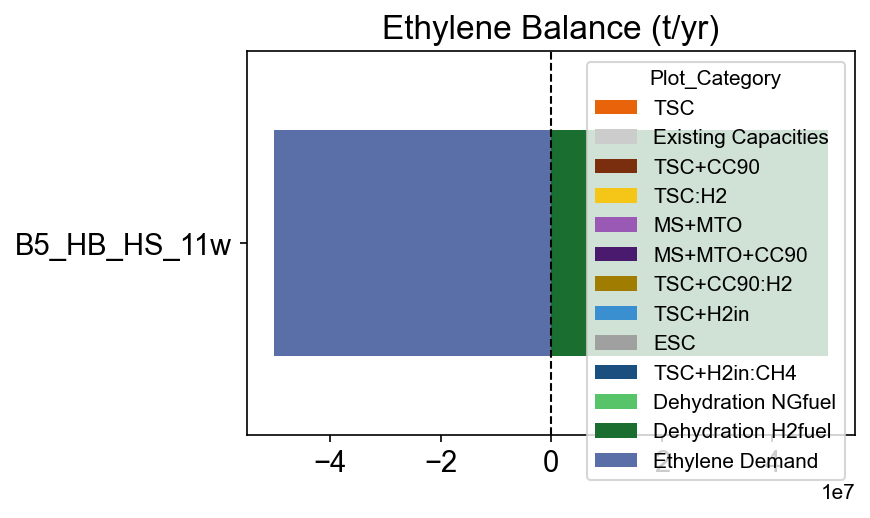
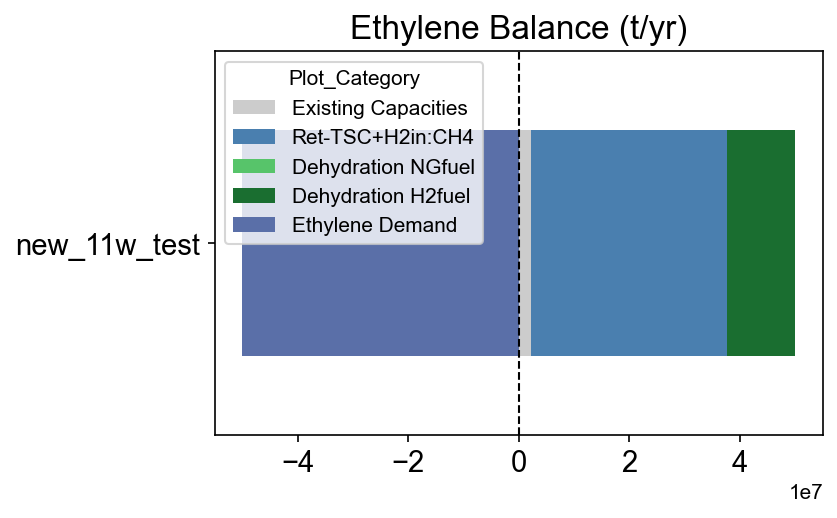
Update scenario names and paths for new test cases in multiple scripts

diff --git a/Dolphyn Plots Codes/LF_Dolphyn.py b/Dolphyn Plots Codes/LF_Dolphyn.py
@@ -7,37 +7,23 @@ pd.set_option('display.max_columns', None)
 pd.set_option('display.max_rows', None)
 
 # Define paths and scenarios
-scenario_names = ['HB-HS', 'HB-LS', 'LB-HS', 'LB-LS']
 
 sys.path.append(os.path.dirname(os.path.dirname(os.path.abspath(__file__))))
-from Step_1_Process_Macro_Flows_and_Balance_Demand import dolphyn_base_dir
+from Step_1_Process_Macro_Flows_and_Balance_Demand import dolphyn_base_dir, scenario_names
 
-bf_results_files = [f'{dolphyn_base_dir}/NineZones_High_Biomass_High_CO2/Results/Results_BESC/BESC_Bio_LF_capacity.csv',
-                 f'{dolphyn_base_dir}/NineZones_High_Biomass_Low_CO2/Results/Results_BESC/BESC_Bio_LF_capacity.csv',
-                 f'{dolphyn_base_dir}/NineZones_Low_Biomass_High_CO2/Results/Results_BESC/BESC_Bio_LF_capacity.csv',
-                 f'{dolphyn_base_dir}/NineZones_Low_Biomass_Low_CO2/Results/Results_BESC/BESC_Bio_LF_capacity.csv']
+print('dolphyn_base_dir: ', dolphyn_base_dir)
 
-sf_results_files = [f'{dolphyn_base_dir}/NineZones_High_Biomass_High_CO2/Results/Results_LF/Synfuel_capacity.csv',
-                 f'{dolphyn_base_dir}/NineZones_High_Biomass_Low_CO2/Results/Results_LF/Synfuel_capacity.csv',
-                 f'{dolphyn_base_dir}/NineZones_Low_Biomass_High_CO2/Results/Results_LF/Synfuel_capacity.csv',
-                 f'{dolphyn_base_dir}/NineZones_Low_Biomass_Low_CO2/Results/Results_LF/Synfuel_capacity.csv']
+bf_results_files = [f'{dolphyn_base_dir}/B5_HB_HS_11w/Results/Results_BESC/BESC_Bio_LF_capacity.csv']
+
+sf_results_files = [f'{dolphyn_base_dir}/B5_HB_HS_11w/Results/Results_LF/Synfuel_capacity.csv']
 
 
 fuels_balance_files = {
-    'Gasoline': [f'{dolphyn_base_dir}/NineZones_High_Biomass_High_CO2/Results/Results_LF/LF_Gasoline_balance.csv',
-                 f'{dolphyn_base_dir}/NineZones_High_Biomass_Low_CO2/Results/Results_LF/LF_Gasoline_balance.csv',
-                 f'{dolphyn_base_dir}/NineZones_Low_Biomass_High_CO2/Results/Results_LF/LF_Gasoline_balance.csv',
-                 f'{dolphyn_base_dir}/NineZones_Low_Biomass_Low_CO2/Results/Results_LF/LF_Gasoline_balance.csv'],
+    'Gasoline': [f'{dolphyn_base_dir}/B5_HB_HS_11w/Results/Results_LF/LF_Gasoline_balance.csv'],
     
-    'Jetfuel': [f'{dolphyn_base_dir}/NineZones_High_Biomass_High_CO2/Results/Results_LF/LF_Jetfuel_balance.csv',
-                f'{dolphyn_base_dir}/NineZones_High_Biomass_Low_CO2/Results/Results_LF/LF_Jetfuel_balance.csv',
-                f'{dolphyn_base_dir}/NineZones_Low_Biomass_High_CO2/Results/Results_LF/LF_Jetfuel_balance.csv',
-                f'{dolphyn_base_dir}/NineZones_Low_Biomass_Low_CO2/Results/Results_LF/LF_Jetfuel_balance.csv'],
+    'Jetfuel': [f'{dolphyn_base_dir}/B5_HB_HS_11w/Results/Results_LF/LF_Jetfuel_balance.csv'],
 
-    'Diesel': [f'{dolphyn_base_dir}/NineZones_High_Biomass_High_CO2/Results/Results_LF/LF_Diesel_balance.csv',
-               f'{dolphyn_base_dir}/NineZones_High_Biomass_Low_CO2/Results/Results_LF/LF_Diesel_balance.csv', 
-               f'{dolphyn_base_dir}/NineZones_Low_Biomass_High_CO2/Results/Results_LF/LF_Diesel_balance.csv',
-               f'{dolphyn_base_dir}/NineZones_Low_Biomass_Low_CO2/Results/Results_LF/LF_Diesel_balance.csv']
+    'Diesel': [f'{dolphyn_base_dir}/B5_HB_HS_11w/Results/Results_LF/LF_Diesel_balance.csv']
 }
 
 conversion_factor = 0.293071 * 3.6e-9
@@ -59,20 +45,26 @@ def load_bf_results(files, scenario_names):
 
 # Categorize resources
 def categorize_bf_resource(resource):
-    if 'Gasification_CCS_99' in resource:
+    if resource == 'Total':
+        return None
+    elif 'Gasoline_Gasification_CCS_99' in resource:
         return 'Bio MeOH - Gasoline High CCS'
-    elif 'Gasification_CCS_31' in resource:
-        return 'Bio MeOH - Gasoline Mid CCS'
-    elif 'Gasification_Non_CCS' in resource:
+    elif 'Gasoline_Gasification' in resource and 'CCS' not in resource:
         return 'Bio MeOH - Gasoline Non CCS'
-    elif 'High_Diesel_CCS_99' in resource:
+    elif 'Pyrolysis_CCS_99' in resource:
+        return 'Pyrolysis High CCS'
+    elif 'Pyrolysis' in resource and 'CCS' not in resource:
+        return 'Pyrolysis Non CCS'
+    elif 'FT_High_Diesel_CCS_99' in resource:
         return 'Bio FT (High Diesel) High CCS'
-    elif 'High_Diesel_CCS_53' in resource:
-        return 'Bio FT (High Diesel) Mid CCS'
-    elif 'High_Diesel_Non_CCS' in resource:
+    elif 'FT_High_Diesel' in resource and 'CCS' not in resource:
         return 'Bio FT (High Diesel) Non CCS'
-    elif 'High_Jetfuel' in resource:
-        return 'Bio FT (High Jetfuel) High CCS'
+    elif 'FT_High_Jetfuel_CCS_84' in resource:
+        return 'Bio FT (High Jetfuel) CCS 84'
+    elif 'FT_High_Jetfuel_CCS_99' in resource:
+        return 'Bio FT (High Jetfuel) CCS 99'
+    else:
+        return None
 
 def load_sf_results(files, scenario_names):
     dfs = []
@@ -96,7 +88,7 @@ def categorize_sf_resource(resource):
         return 'SFT CCS'
     
 
-# Load fuel balance data
+# Load fossil fuel balance data — fix demand column
 def load_fossil_fuel_balances(files, scenario_names):
     dfs = []
     for fuel_type, file_list in files.items():
@@ -108,7 +100,8 @@ def load_fossil_fuel_balances(files, scenario_names):
             
             df_result = pd.DataFrame({
                 'Scenario': [scenario],
-                'Fossil': [fossil_value]
+                'Fossil': [fossil_value],
+                'Demand': [demand_value]
             })
             dfs.append(df_result)
     return pd.concat(dfs, ignore_index=True)
@@ -117,6 +110,9 @@ def load_fossil_fuel_balances(files, scenario_names):
 bf_data = load_bf_results(bf_results_files, scenario_names)
 bf_data['Resource_Category'] = bf_data['Resource'].apply(categorize_bf_resource)
 bf_aggregated = bf_data.groupby(['Scenario', 'Resource_Category'])['Total_Biofuel_Production'].sum().unstack().fillna(0)
+
+print(bf_data['Resource'].unique())
+print(bf_data['Resource_Category'].unique())  # check for NaN
 
 # Load synfuel results and categorize
 sf_data = load_sf_results(sf_results_files, scenario_names)
@@ -127,23 +123,26 @@ sf_aggregated = sf_data.groupby(['Scenario', 'Resource_Category'])['Total_Synfue
 # Load fossil fuel results and categorize
 fossil_data = load_fossil_fuel_balances(fuels_balance_files, scenario_names)
 fossil_aggregated = fossil_data.groupby('Scenario')[['Fossil']].sum()
+demand_aggregated = fossil_data.groupby('Scenario')[['Demand']].sum()  # total demand across fuels
 
 # Combine all data
 combined_data = bf_aggregated.join(fossil_aggregated, on='Scenario', how='left').fillna(0)
 combined_data = sf_aggregated.join(combined_data, on='Scenario', how='left').fillna(0)
 
-scenario_order = ['HB-HS','HB-LS','LB-HS','LB-LS']
+scenario_order = ['B5_HB_HS_11w']
 combined_data = combined_data.loc[scenario_order]
 
 
 # Custom order for arranging categories
 desired_order = [
     'Bio MeOH - Gasoline Non CCS',
-    'Bio MeOH - Gasoline Mid CCS',
     'Bio MeOH - Gasoline High CCS',
-    'Bio FT (High Jetfuel) High CCS',
-    'Bio FT (High Diesel) Mid CCS',
+    'Pyrolysis Non CCS',
+    'Pyrolysis High CCS',
+    'Bio FT (High Diesel) Non CCS',
     'Bio FT (High Diesel) High CCS',
+    'Bio FT (High Jetfuel) CCS 84',
+    'Bio FT (High Jetfuel) CCS 99',
     'SFT Non CCS',
     'SFT CCS',
     'Fossil'
@@ -155,38 +154,52 @@ combined_data = combined_data[[col for col in desired_order if col in combined_d
 
 # Custom colors and display names
 category_colors = {
-    'Bio MeOH - Gasoline Non CCS': 'lightblue',
-    'Bio MeOH - Gasoline Mid CCS': 'cornflowerblue',
+    'Bio MeOH - Gasoline Non CCS':  'lightblue',
     'Bio MeOH - Gasoline High CCS': 'royalblue',
-    'Bio FT (High Jetfuel) High CCS': 'chocolate',
-    'Bio FT (High Diesel) Mid CCS': 'limegreen',
-    'Bio FT (High Diesel) High CCS': 'forestgreen',
-    'SFT Non CCS': 'purple',
-    'SFT CCS': 'indigo',
-    'Fossil': 'grey',
+    'Pyrolysis Non CCS':            'peachpuff',
+    'Pyrolysis High CCS':           'darkorange',
+    'Bio FT (High Diesel) Non CCS': 'limegreen',
+    'Bio FT (High Diesel) High CCS':'forestgreen',
+    'Bio FT (High Jetfuel) CCS 84': 'sandybrown',
+    'Bio FT (High Jetfuel) CCS 99': 'chocolate',
+    'SFT Non CCS':                  'purple',
+    'SFT CCS':                      'indigo',
+    'Fossil':                       'grey',
 }
 
 plt.rcParams['font.family'] = 'Arial'
 
 label_map = {
-    'Bio MeOH - Gasoline Non CCS': 'Bio-MTG',
-    'Bio MeOH - Gasoline Mid CCS': 'Bio-MTG CC31',
+    'Bio MeOH - Gasoline Non CCS':  'Bio-MTG',
     'Bio MeOH - Gasoline High CCS': 'Bio-MTG CC99',
-    'Bio FT (High Jetfuel) High CCS': 'Bio-FT (Jet) CC84',
-    'Bio FT (High Diesel) Mid CCS': 'Bio-FT (Diesel) CC53',
-    'Bio FT (High Diesel) High CCS': 'Bio-FT (Diesel) CC99',
-    'SFT Non CCS': 'Syn-FT (Jet)',
-    'SFT CCS': 'Syn-FT (Jet) CC99',
-    'Fossil': 'Fossil Liquids'
+    'Pyrolysis Non CCS':            'Pyrolysis',
+    'Pyrolysis High CCS':           'Pyrolysis CC99',
+    'Bio FT (High Diesel) Non CCS': 'Bio-FT (Diesel)',
+    'Bio FT (High Diesel) High CCS':'Bio-FT (Diesel) CC99',
+    'Bio FT (High Jetfuel) CCS 84': 'Bio-FT (Jet) CC84',
+    'Bio FT (High Jetfuel) CCS 99': 'Bio-FT (Jet) CC99',
+    'SFT Non CCS':                  'Syn-FT',
+    'SFT CCS':                      'Syn-FT CC99',
+    'Fossil':                       'Fossil Liquids',
 }
 
-# Plotting the combined stacked horizontal bar chart with custom colors
+# Reorder the columns based on the desired order (only keep the matching columns)
+available_order = [col for col in desired_order if col in combined_data.columns]
+combined_data = combined_data[available_order]
+
+# Plotting
 fig, ax = plt.subplots(figsize=(4.3, 2.2))
 
-combined_data[desired_order].plot(
+combined_data[available_order].plot(
     kind='barh', stacked=True, width=0.7, ax=ax,
-    color=[category_colors.get(col, '#333333') for col in desired_order]
+    color=[category_colors.get(col, '#333333') for col in available_order]
 )
+
+# Add demand as a vertical line per scenario
+for i, scenario in enumerate(scenario_order):
+    if scenario in demand_aggregated.index:
+        demand_val = demand_aggregated.loc[scenario, 'Demand']
+        ax.axvline(x=demand_val, color='black', linewidth=1.5, linestyle='--', label='Demand' if i == 0 else '')
 
 plt.ylabel('Scenario', fontsize=16)
 plt.title('Total LF Prod. (EJ)', fontsize=16)
@@ -195,13 +208,12 @@ plt.xticks(fontsize=16)
 ax.set_xlim(0, 13)
 ax.set_xticks([0, 4, 8, 12])
 ax.invert_yaxis()
-ax.axvline(x=0, color='black', linewidth=1, linestyle='--')
 
-# Custom legend using renamed labels and 2 rows
-handles, _ = ax.get_legend_handles_labels()
-custom_labels = [label_map[col] for col in desired_order]
+# Legend — include demand line handle
+handles, labels = ax.get_legend_handles_labels()
+custom_labels = [label_map[col] for col in available_order] + ['Demand']
 ax.legend(handles, custom_labels, loc='upper center', bbox_to_anchor=(0.5, -0.15),
           ncol=5, fontsize=14, frameon=False)
-#ax.legend().remove()
+
 plt.tight_layout()
 plt.show()

diff --git a/Step_1_Process_Macro_Flows_and_Balance_Demand.py b/Step_1_Process_Macro_Flows_and_Balance_Demand.py
@@ -6,18 +6,18 @@ import pandas as pd
 # User inputs
 # ---------------------------------------------------------------------
 
-macro_base_dir = "/Users/abbie/MacroEnergy-Abbie.jl/MacroEnergyExamples/macro"
-dolphyn_base_dir = "/Users/abbie/Desktop/Dolphyn_to_Macro/Ethylene_Case_5_13/dolphyn"
+macro_base_dir = "/Users/abbie/MacroEnergyExamples.jl/macro"
+dolphyn_base_dir = "/Users/abbie/Desktop/Dolphyn_to_Macro/Chaitanya_5_23/dolphyn"
 macro_results_folder = "results_001"
-dolphyn_results_folder = "Results_2"
-scenario_names = ["B5_HB_HS_11w"]
+dolphyn_results_folder = "Results_1"
+scenario_names = ["new_11w_test"]
 
 scenario_folders = [
-    f'B5_HB_HS_11w/{macro_results_folder}/results',
+    f'new_11w_test/{macro_results_folder}/results',
 ]
 
 scenario_labels = {
-    f'B5_HB_HS_11w/{macro_results_folder}/results': "B5_HB_HS_11w",
+    f'new_11w_test/{macro_results_folder}/results': "new_11w_test",
 }
 
 chunk_size = 50_000

diff --git a/Dolphyn vs Macro Plots Codes/ETHYLENE_D_vs_M.py b/Dolphyn vs Macro Plots Codes/ETHYLENE_D_vs_M.py
@@ -16,17 +16,17 @@ plt.rcParams["font.family"] = "Arial"
 # Paths and scenarios
 # ---------------------------------------------------------------------
 
-scenario_names = ["B5_HB_HS_11w"]
+scenario_names = ["new_11w_test"]
 
 sys.path.append(os.path.dirname(os.path.dirname(os.path.abspath(__file__))))
 from Step_1_Process_Macro_Flows_and_Balance_Demand import dolphyn_base_dir, macro_base_dir, macro_results_folder, dolphyn_results_folder
 
 dolphyn_scenario_paths = {
-    "B5_HB_HS_11w": f'B5_HB_HS_11w/{dolphyn_results_folder}/Results_Ethylene',
+    "new_11w_test": f'new_11w_test/{dolphyn_results_folder}/Results_Ethylene',
 }
 
 macro_scenario_paths = {
-    "B5_HB_HS_11w": f'B5_HB_HS_11w/{macro_results_folder}/results',
+    "new_11w_test": f'new_11w_test/{macro_results_folder}/results',
 }
 
 # Ethylene flows are already in tonnes — no conversion needed for either model.

diff --git a/Dolphyn Plots Codes/ETHYLENE_Dolphyn_newv2.py b/Dolphyn Plots Codes/ETHYLENE_Dolphyn_newv2.py
@@ -23,7 +23,7 @@ plt.rcParams["font.family"] = "Arial"
 # ---------------------------------------------------------------------
 
 dolphyn_scenario_paths = {
-    "B5_HB_HS_11w": f'B5_HB_HS_11w/{dolphyn_results_folder}/Results_Ethylene',
+    "new_11w_test": f'new_11w_test/{dolphyn_results_folder}/Results_Ethylene',
 }
 
 # Ethylene_capacity.csv Annual_Ethylene_Production is in tonnes/year already.

diff --git a/Macro Plots Codes/ETHYLENE_Macro.py b/Macro Plots Codes/ETHYLENE_Macro.py
@@ -22,7 +22,7 @@ plt.rcParams["font.family"] = "Arial"
 # ---------------------------------------------------------------------
 
 macro_scenario_paths = {
-    "B5_HB_HS_11w": f"B5_HB_HS_11w/{macro_results_folder}/results",
+    "new_11w_test": f"new_11w_test/{macro_results_folder}/results",
 }
 
 # Ethylene flows in flows.csv are already in tonnes — no conversion needed.